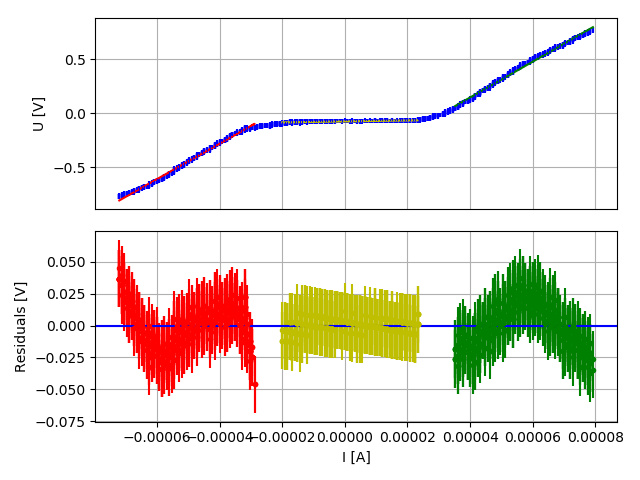
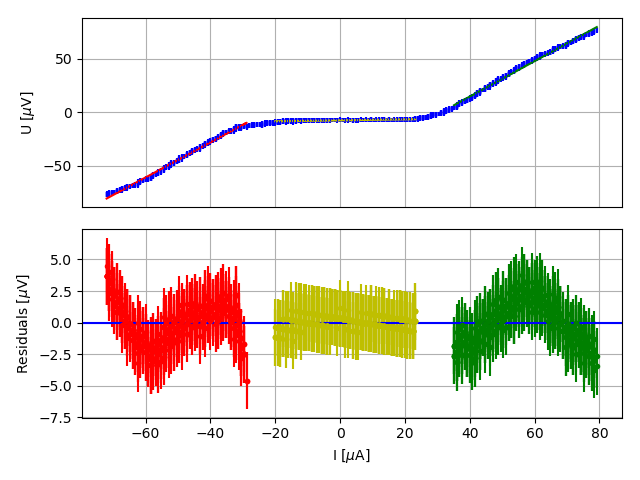
M3 U(I) corrected voltage interpretation

diff --git a/M3/Python/U_I_characteristic.py b/M3/Python/U_I_characteristic.py
@@ -9,29 +9,26 @@ import csv
 R_Ohm = 10**4
 k = '43'
 I = np.genfromtxt('../Daten/ALL00' + k + '/F00' + k + 'CH1.csv', delimiter=',', skip_header=18)[:,4] / R_Ohm
-U = np.genfromtxt('../Daten/ALL00' + k + '/F00' + k + 'CH2.csv', delimiter=',', skip_header=18)[:,4]
+U = np.genfromtxt('../Daten/ALL00' + k + '/F00' + k + 'CH2.csv', delimiter=',', skip_header=18)[:,4] / R_Ohm
 
-sig_U = np.full(len(U), np.std(np.genfromtxt('../Daten/ALL0030/F0030CH2.csv', delimiter=',', skip_header=18)[:,4]))
+sig_U = np.full(len(U), np.std(np.genfromtxt('../Daten/ALL0030/F0030CH2.csv', delimiter=',', skip_header=18)[:,4] / R_Ohm))
 sig_I = np.full(len(I), 0.2*10**(-6)/np.sqrt(12))
 
 fig = plt.figure()
-plt.errorbar(I * 10**6, U, xerr=sig_I * 10**6, yerr=sig_U, fmt = ',', color = 'b')
+plt.errorbar(I * 10**6, U * 10**6, xerr=sig_I * 10**6, yerr=sig_U * 10**6, fmt = ',', color = 'b')
 plt.xlabel('I [$\mu$A]')
-plt.ylabel('U [V]')
+plt.ylabel('U [$\mu$V]')
 plt.grid()
 plt.tight_layout()
 plt.savefig('../Protokoll/Bilder/U_I_characteristic/characteristic.png')
 plt.close(fig)
 
 start_index, end_index = [0, 800, 1700], [650, 1500, 2482]
-labels = ['I [A]', 'U [V]', 'Residuals [V]', '']
+labels = ['I [$\mu$A]', 'U [$\mu$V]', 'Residuals [$\mu$V]', '']
 save_path = '../Protokoll/Bilder/U_I_characteristic/fit_' + k + '.png'
-out = STMM.multi_lin_reg_one_plot(I, U, sig_I, sig_U, start_index, end_index, labels, save_path)
+out = STMM.multi_lin_reg_one_plot(I * 10**6, U * 10**6, sig_I * 10**6, sig_U * 10**6, start_index, end_index, labels, save_path)
 
 #R_N
-print(out[0][0], out[0][1])
-print(out[2][0], out[2][1])
-
 R_N = (out[0][0] + out[2][0])/2
 sig_R_N = np.abs(out[0][0] - out[2][0])/np.sqrt(12)
 print('R_N = (' + str(R_N) + ' +/- ' + str(sig_R_N) + ') Ohm')
@@ -40,8 +37,8 @@ print('R_N = (' + str(R_N) + ' +/- ' + str(sig_R_N) + ') Ohm')
 x1, sig_x1, y1, sig_y1 = STMM.geraden_schnittpunkte_fehler(out[0], out[1])
 x2, sig_x2, y2, sig_y2 = STMM.geraden_schnittpunkte_fehler(out[1], out[2])
 
-I_C = (np.abs(x1) + np.abs(x2))/2
-sig_I_C = 1./2 * np.sqrt(sig_x1**2 + sig_x2**2)
+I_C = (np.abs(x1) + np.abs(x2))/2 * 10**(-6)
+sig_I_C = 1./2 * np.sqrt(sig_x1**2 + sig_x2**2) * 10**(-6)
 print('I_C = (' + str(I_C) + ' +/- ' + str(sig_I_C) + ') A')
 
 #V_C
